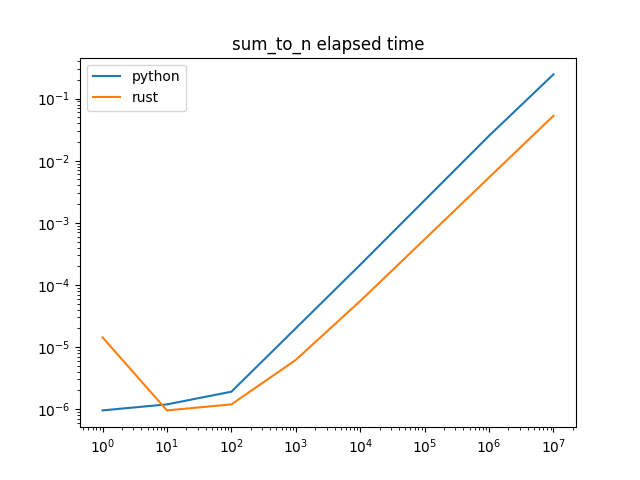
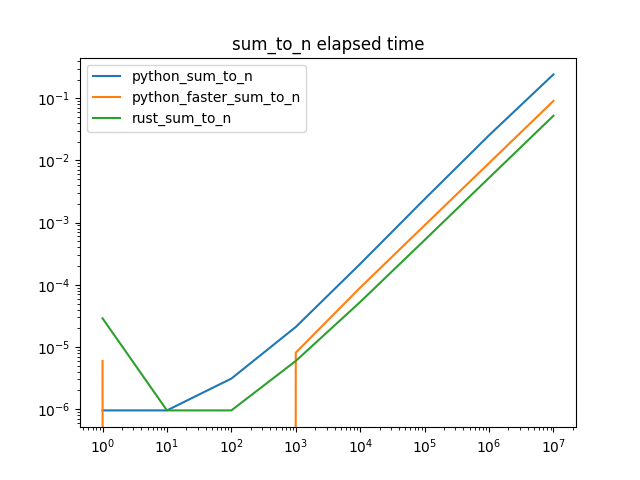
Update faster python sum to n

diff --git a/python_rust_module/main.py b/python_rust_module/main.py
@@ -1,10 +1,12 @@
 import time
+from functools import wraps
 
 import rust_module
 from matplotlib import pyplot as plt
 
 
 def time_elapsed(fn):
+    @wraps(fn)
     def wrapper(*args, **kwargs):
         start = time.time()
         result = fn(*args, **kwargs)
@@ -23,36 +25,50 @@ def python_sum_to_n(n):
 
 
 @time_elapsed
+def python_faster_sum_to_n(n):
+    return sum(range(1, n + 1))
+
+
+@time_elapsed
 def rust_sum_to_n(n):
     return rust_module.sum_to_n(n)
 
 
 if __name__ == "__main__":
     test_input = [pow(10, i) for i in range(8)]
-    python_output = [python_sum_to_n(n) for n in test_input]
-    rust_output = [rust_sum_to_n(n) for n in test_input]
+    test_functions = [python_sum_to_n, python_faster_sum_to_n, rust_sum_to_n]
+    outputs = [[fn(n) for n in test_input] for fn in test_functions]
 
     # test to output is equal
-    python_result = [output[0] for output in python_output]
-    rust_result = [output[0] for output in rust_output]
-    assert python_result == rust_result
+    first_result = [result for result, _ in outputs[0]]
+    for output in outputs:
+        assert first_result == [result for result, _ in output]
+
+    # transform elapsed time
+    elapsed_dict = {
+        fn.__name__: [elapsed for _, elapsed in output]
+        for fn, output in zip(test_functions, outputs)
+    }
 
     # compare elapsed time with graph
-    python_elapsed = [output[1] for output in python_output]
-    rust_elapsed = [output[1] for output in rust_output]
-    plt.plot(test_input, python_elapsed, label="python")
-    plt.plot(test_input, rust_elapsed, label="rust")
-    plt.xscale("log")
+    for fn_name, elapsed in elapsed_dict.items():
+        plt.plot(test_input, elapsed, label=fn_name)
     plt.yscale("log")
-    plt.title("sum_to_n elapsed time")
+    plt.xscale("log")
     plt.legend()
+    plt.title("sum_to_n elapsed time")
     plt.show()
 
+    print(elapsed_dict.keys())
     # compare ratio of elapsed time python over rust
-    ratio = [python / rust for python, rust in zip(python_elapsed, rust_elapsed)]
-    plt.plot(test_input, ratio)
+    rust_elapsed = elapsed_dict["rust_sum_to_n"]
+    for fn_name, elapsed in elapsed_dict.items():
+        ratio = [base / rust for base, rust in zip(elapsed, rust_elapsed)]
+        plt.plot(test_input, ratio, label=fn_name)
+        for i, v in enumerate(ratio):
+            plt.text(test_input[i], v, "{:.2f}".format(v))
+
     plt.xscale("log")
-    for i, v in enumerate(ratio):
-        plt.text(test_input[i], v, "{:.2f}".format(v))
+    plt.legend()
     plt.title("sum_to_n elapsed time ratio")
     plt.show()
